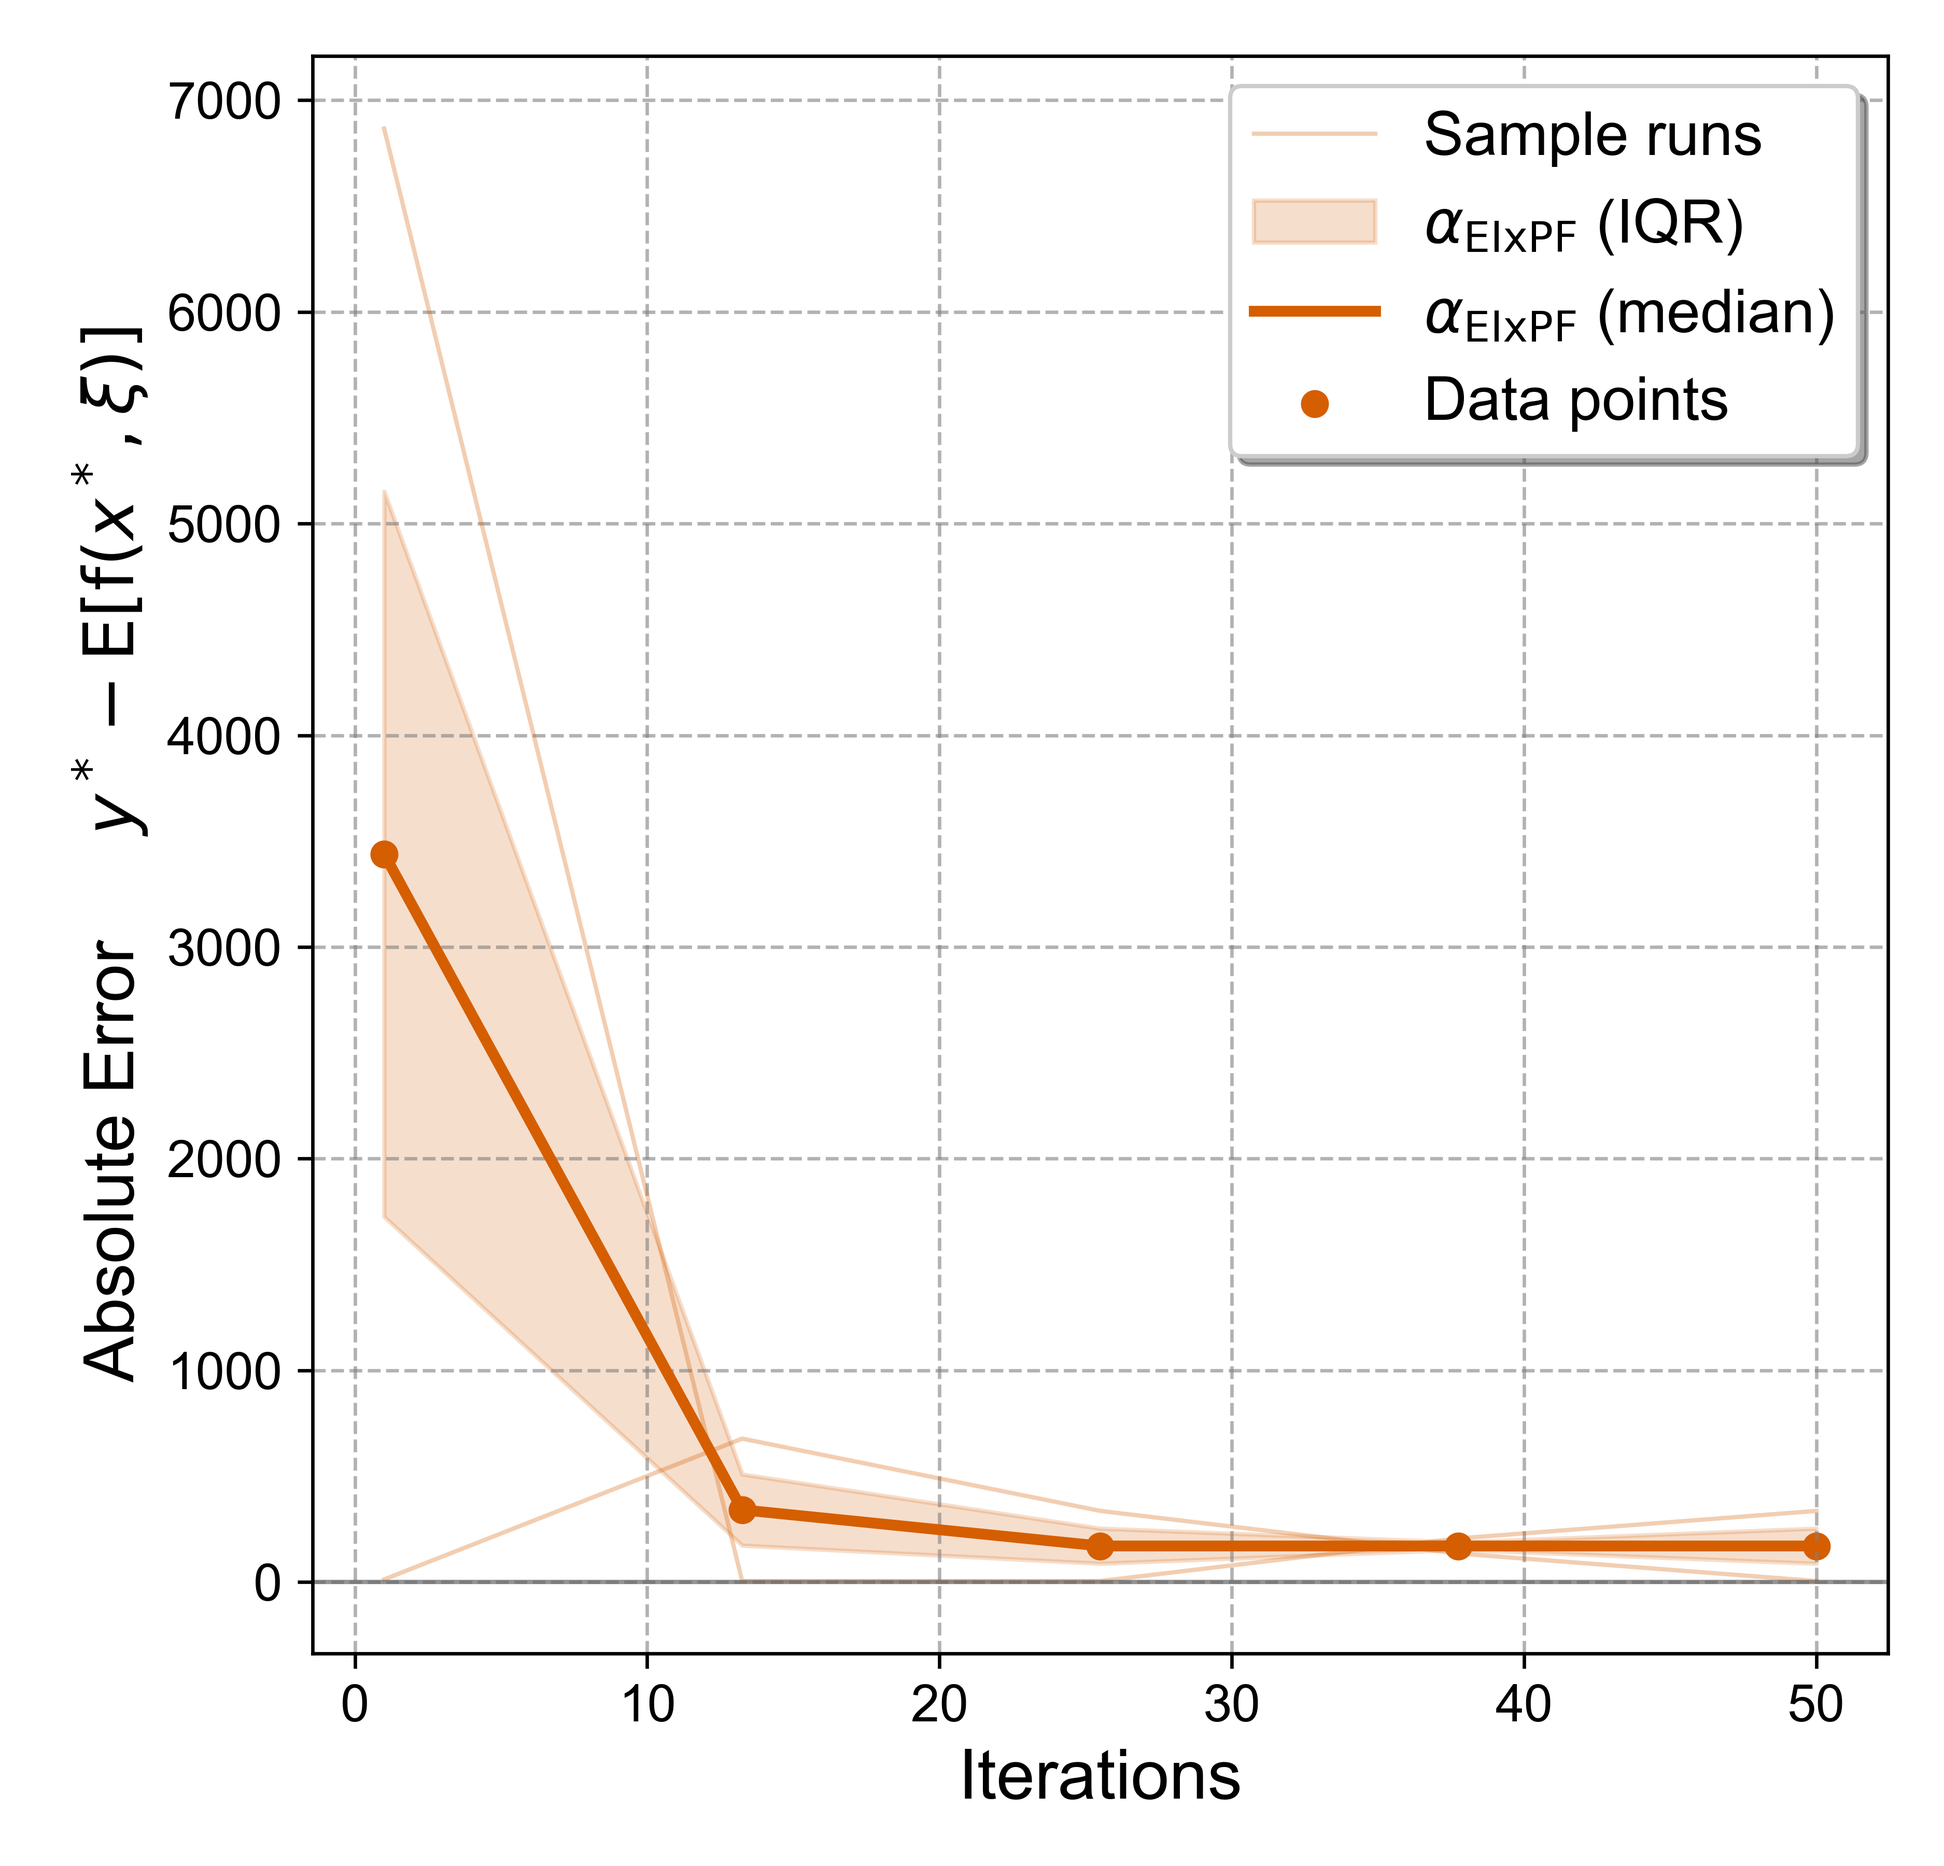
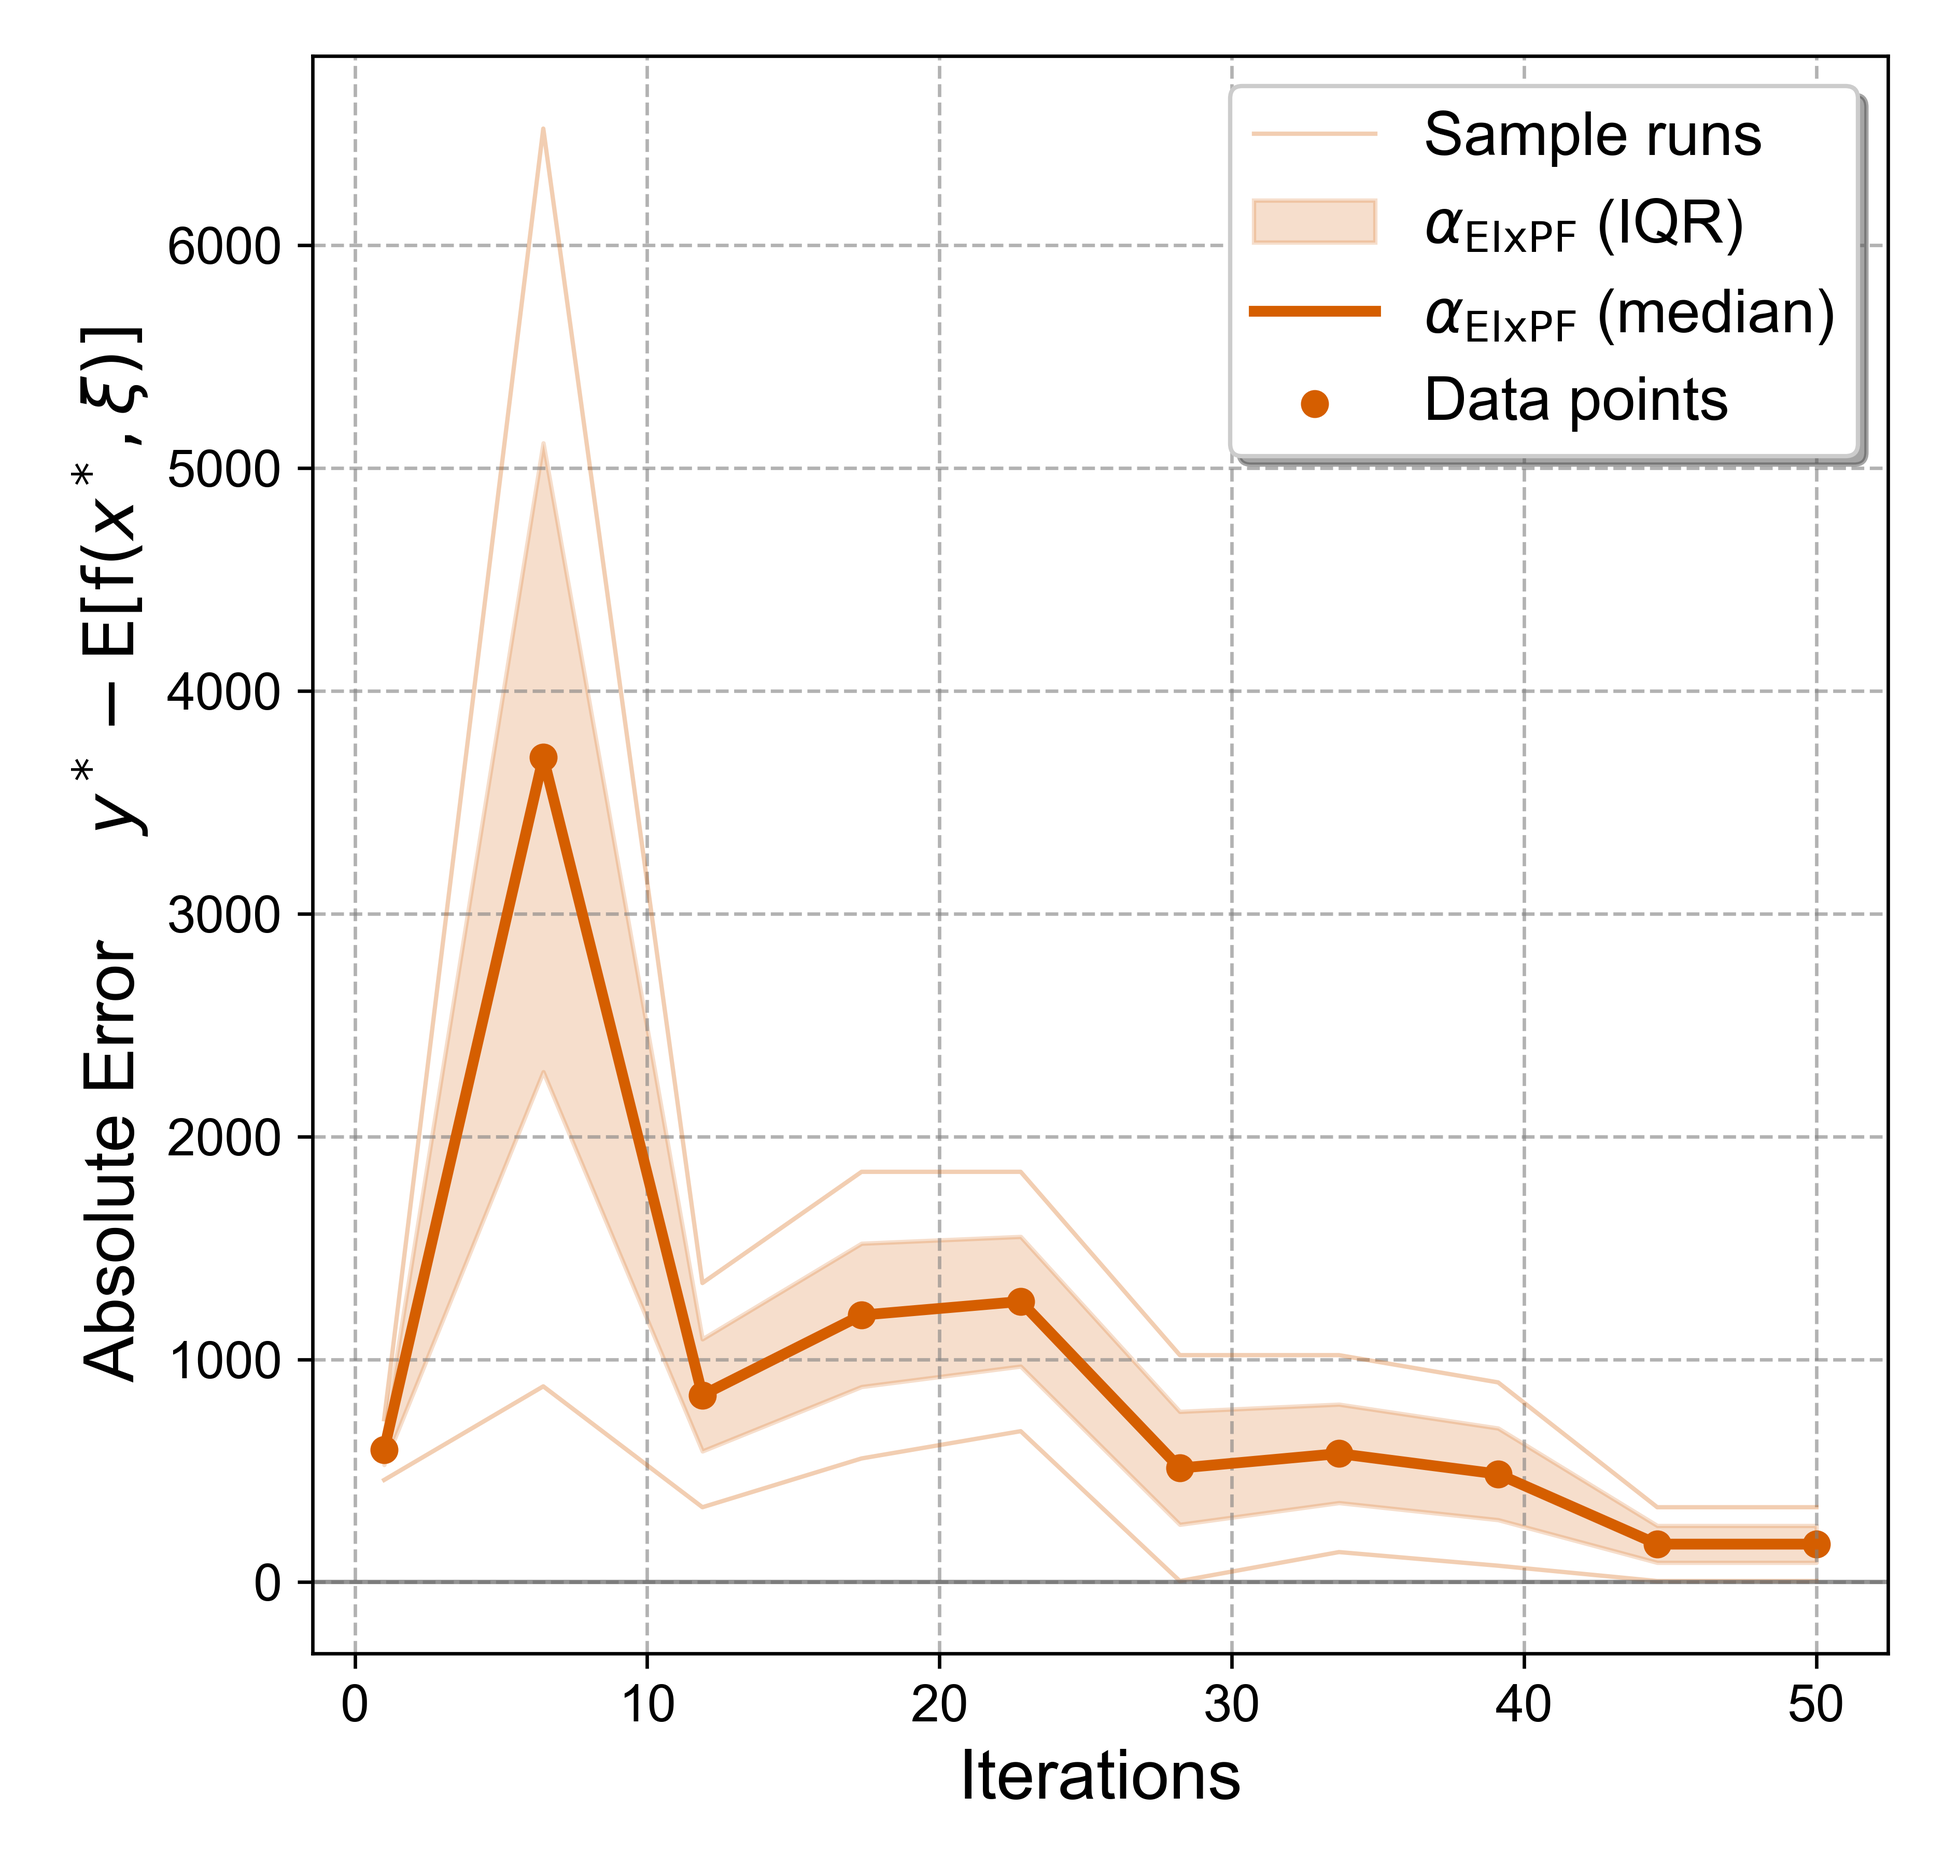
meta runner

diff --git a/examples/paper/results_meta.py b/examples/paper/results_meta.py
@@ -91,7 +91,7 @@ def main():
         if not os.path.exists(PROGRESS_FILE):
             # Check if this is because we're done or haven't started
             if attempt > 1:
-                log_message("✓ Progress file removed - work completed successfully!")
+                log_message("Progress file removed - work completed successfully!")
                 log_message(f"Total attempts needed: {attempt - 1}")
                 break
             else:
@@ -116,7 +116,7 @@ def main():
                 
                 # Check if progress file is gone (indicating completion)
                 if not os.path.exists(PROGRESS_FILE):
-                    log_message("✓ SUCCESS: All work completed!")
+                    log_message("SUCCESS: All work completed!")
                     break
                 else:
                     log_message("Progress file still exists - may have more work to do")
@@ -137,7 +137,7 @@ def main():
         if current_progress and last_progress:
             if (current_progress['batch'] == last_progress['batch'] and 
                 current_progress['run'] == last_progress['run']):
-                log_message("⚠ Warning: No progress made in last run")
+                log_message("Warning: No progress made in last run")
         last_progress = current_progress
         
         # Wait before next attempt
@@ -147,14 +147,14 @@ def main():
     
     # Final check
     if os.path.exists(PROGRESS_FILE):
-        log_message(f"\n✗ FAILED: Reached maximum attempts ({MAX_ATTEMPTS})")
+        log_message(f"\nFAILED: Reached maximum attempts ({MAX_ATTEMPTS})")
         log_message("Progress file still exists - work incomplete")
         progress = get_progress()
         if progress:
             log_message(f"Stopped at: Batch {progress['batch']}, Run {progress['run']}")
         sys.exit(1)
     else:
-        log_message("\n✓ All done! Results script completed successfully.")
+        log_message("\nAll done! Results script completed successfully.")
         log_message(f"Check {LOG_FILE} for full execution history")
         sys.exit(0)
 

diff --git a/examples/paper/results.py b/examples/paper/results.py
@@ -301,10 +301,10 @@ if __name__ == "__main__":
     name = 'prestressed' 
     y_optimal = -17886 
     BATCHS = len(functions) 
-    RUNS = 2  # runs (of each algorithm) 
+    RUNS = 10  # runs (of each algorithm) 
     ITERS = 50  # iterations (on each run) 
     NINITIAL = 5  # initial points (on each run) 
-    N = 10  # test every nth iter 
+    N = 5  # test every nth iter 
     
     # filepath 
     if not os.path.exists('data'): 
